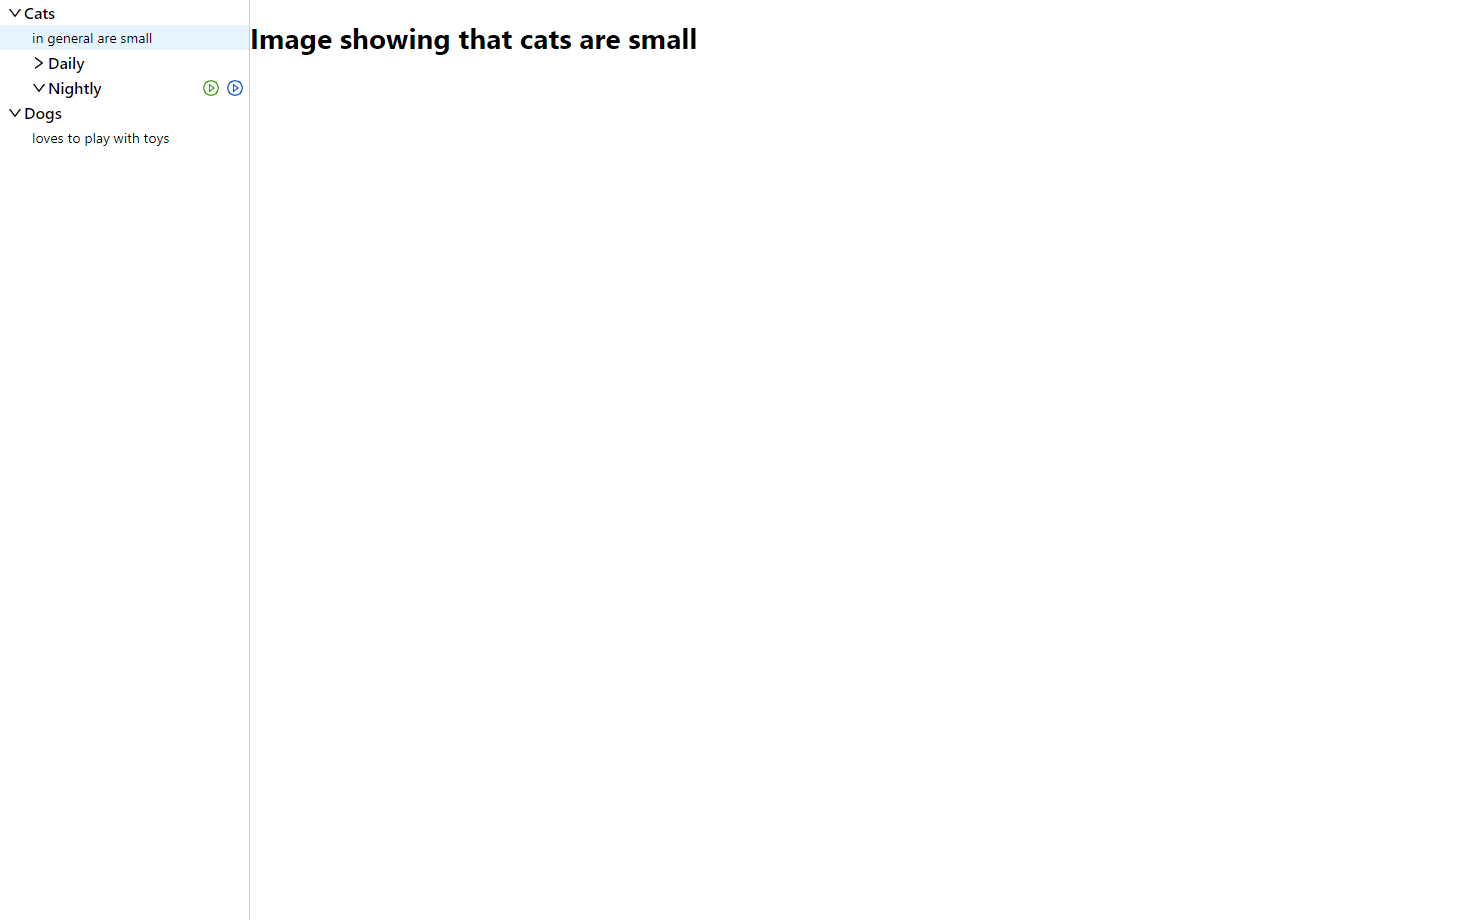
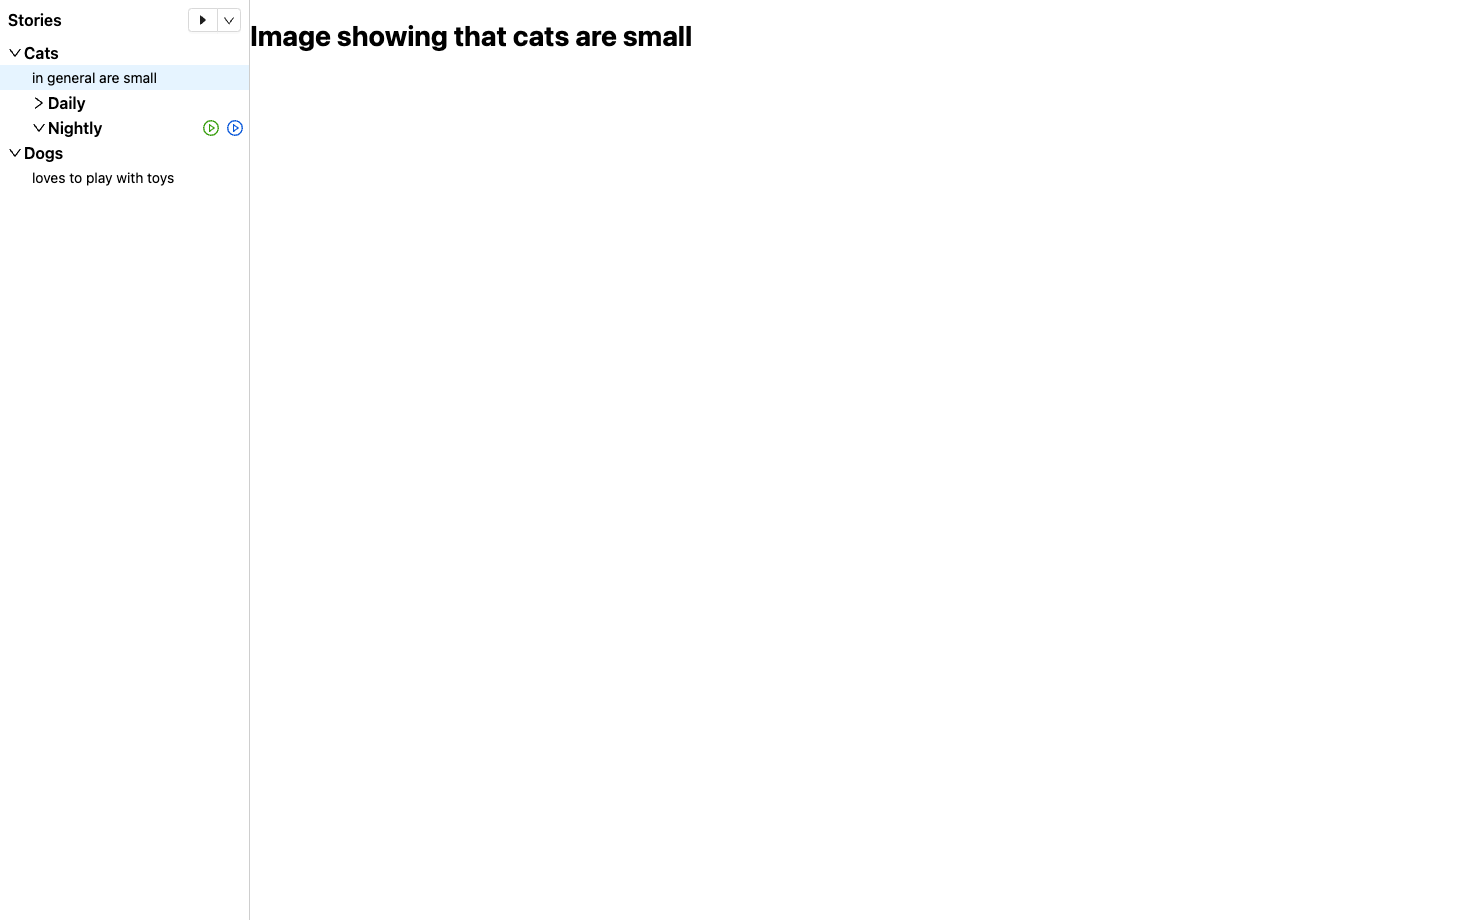
Add run all test

Changed region(s): [[0.0, 0.0, 0.4662, 0.213]]

diff --git a/examples/self-test/stories/index.tsx b/examples/self-test/stories/index.tsx
@@ -126,6 +126,64 @@ export const stories = [
           .click(finder.getByRole('combobox', { name: 'Language' }))
           .click(finder.getBySelector('.rc-virtual-list').getByText('Russian')),
     }),
+    it('allows to run all stories', {
+      arrange: (externals) => {
+        const runStories = createPreviewHavingStories((f) => [
+          f.describe('Cats', [
+            f.it('in general are small', {
+              render: () => <h1>Image showing that cats are small</h1>,
+            }),
+          ]),
+          f.describe('Dogs', [
+            f.it('loves to play with toys', {
+              render: () => <h1>Dogs playground</h1>,
+            }),
+          ]),
+        ]);
+
+        return runStories({
+          ...externals,
+          driver: {
+            ...externals.driver,
+            actOnServerSide: () => new Promise<never>(() => {}),
+          },
+        });
+      },
+      act: (actor) =>
+        actor.click(finder.getByRole('button', { name: 'Run all' })),
+    }),
+    it('allows to run a single story', {
+      arrange: (externals) => {
+        const runStories = createPreviewHavingStories((f) => [
+          f.describe('Cats', [
+            f.it('in general are small', {
+              render: () => <h1>Image showing that cats are small</h1>,
+            }),
+          ]),
+          f.describe('Dogs', [
+            f.it('loves to play with toys', {
+              render: () => <h1>Dogs playground</h1>,
+            }),
+          ]),
+        ]);
+
+        return runStories({
+          ...externals,
+          driver: {
+            ...externals.driver,
+            actOnServerSide: () => new Promise<never>(() => {}),
+          },
+        });
+      },
+      act: (actor) =>
+        actor
+          .click(finder.getByText('Cats'))
+          .click(
+            finder
+              .getByRole('link', { name: 'in general are small' })
+              .getByRole('button', { name: 'Run' }),
+          ),
+    }),
     // it('allows to customize externals', {}),
   ]),
   // describe('Records', [

diff --git a/examples/self-test/mocks.ts b/examples/self-test/mocks.ts
@@ -1,3 +1,4 @@
+import { Journal } from '@storyshots/react-preview';
 import { IExternals } from '../../packages/manager/src/client/externals/types';
 
 export function createExternalsDefaultMocks(): IExternals {
@@ -20,8 +21,20 @@ export function createExternalsDefaultMocks(): IExternals {
   };
 }
 
-export function createExternalsJournal(externals: IExternals) {
-  return externals;
+export function createExternalsJournal(
+  externals: IExternals,
+  journal: Journal,
+): IExternals {
+  return {
+    ...externals,
+    driver: {
+      ...externals.driver,
+      actOnServerSide: journal.record(
+        'actOnServerSide',
+        externals.driver.actOnServerSide,
+      ),
+    },
+  };
 }
 
 function shouldNeverBeCalled(): never {

diff --git a/packages/manager/src/client/Menu/StoryEntry/StoryEntry.tsx b/packages/manager/src/client/Menu/StoryEntry/StoryEntry.tsx
@@ -22,6 +22,7 @@ export const StoryEntry: React.FC<Props> = (props) => {
         $color={blue[0]}
         onClick={() => props.setStory(props.story.id)}
         role="link"
+        aria-label={props.story.payload.title}
       >
         <EntryTitle
           left={
@@ -59,6 +60,7 @@ export const StoryEntry: React.FC<Props> = (props) => {
     return (
       <>
         <EntryAction
+          label="Run"
           action={(e) => {
             e.stopPropagation();
 
@@ -69,6 +71,7 @@ export const StoryEntry: React.FC<Props> = (props) => {
           }
         />
         <EntryAction
+          label="Run with all presets"
           action={(e) => {
             e.stopPropagation();
 

diff --git a/examples/self-test/storyshots/preview/config.tsx b/examples/self-test/storyshots/preview/config.tsx
@@ -1,3 +1,4 @@
+import { ConfigProvider } from 'antd';
 import {
   createDesktopDevice,
   createPreviewApp,
@@ -26,7 +27,11 @@ const {
 const it = (title: Parameters<typeof _it>[0], config: RenderBoundConfig) =>
   _it(title, {
     ...config,
-    render: (externals) => <App externals={externals} />,
+    render: (externals) => (
+      <ConfigProvider theme={{ token: { motion: false } }}>
+        <App externals={externals} />
+      </ConfigProvider>
+    ),
   });
 
 type RenderBoundConfig = Omit<Parameters<typeof _it>[1], 'render'>;

diff --git a/packages/manager/src/client/Menu/GroupEntry/index.tsx b/packages/manager/src/client/Menu/GroupEntry/index.tsx
@@ -47,6 +47,7 @@ export const GroupEntry: React.FC<
         />
         <EntryActions waiting={isPlayingOrRunning()}>
           <EntryAction
+            label="Run"
             icon={
               <PlayCircleOutlined style={{ color: green[6], fontSize: 16 }} />
             }
@@ -61,6 +62,7 @@ export const GroupEntry: React.FC<
             }}
           />
           <EntryAction
+            label="Run with all presets"
             icon={
               <PlayCircleOutlined style={{ color: blue[6], fontSize: 16 }} />
             }

diff --git a/packages/manager/src/client/Menu/reusables/EntryAction.tsx b/packages/manager/src/client/Menu/reusables/EntryAction.tsx
@@ -3,16 +3,18 @@ import { Button } from 'antd';
 import styled from 'styled-components';
 
 type Props = {
+  label: string;
   icon: React.ReactNode;
   action?: React.MouseEventHandler<HTMLElement>;
 };
 
-export const EntryAction: React.FC<Props> = ({ action, icon }) => (
+export const EntryAction: React.FC<Props> = ({ label, action, icon }) => (
   <ActionButtonStyled
     shape="circle"
     size="small"
     onClick={action}
     icon={icon}
+    aria-label={label}
   />
 );
 

diff --git a/packages/manager/src/client/Menu/TopBar/index.tsx b/packages/manager/src/client/Menu/TopBar/index.tsx
@@ -73,7 +73,7 @@ export const TopBar: React.FC<Props> = ({
         }
         disabled={waiting}
       >
-        {!waiting && <CaretRightOutlined />}
+        {!waiting && <CaretRightOutlined aria-label="Run all" />}
       </DropdownButton>
     </Wrapper>
   );
